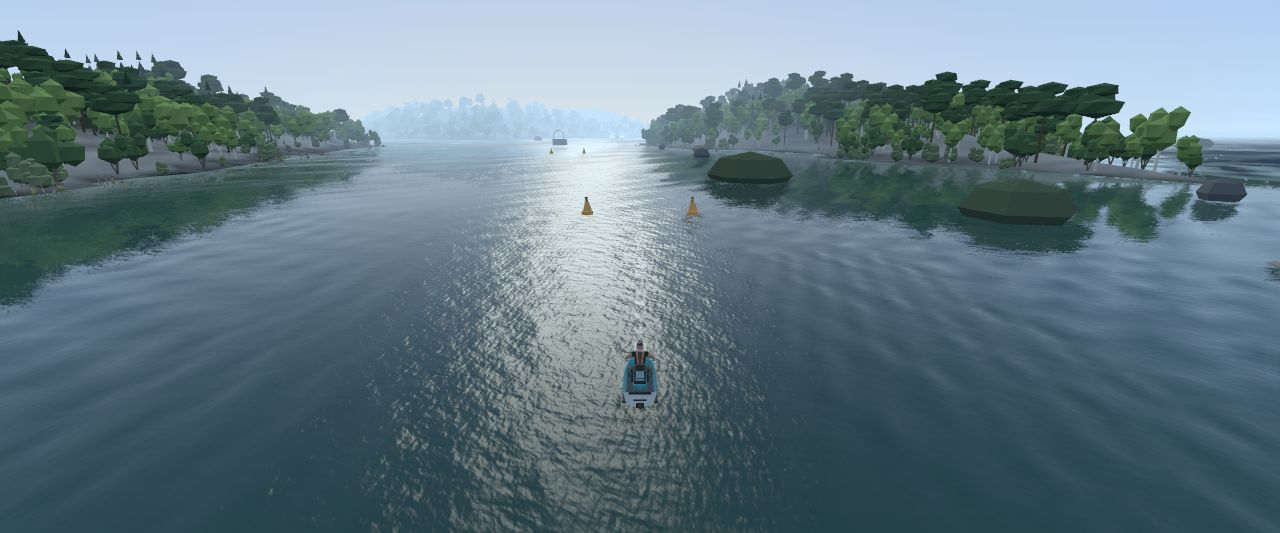
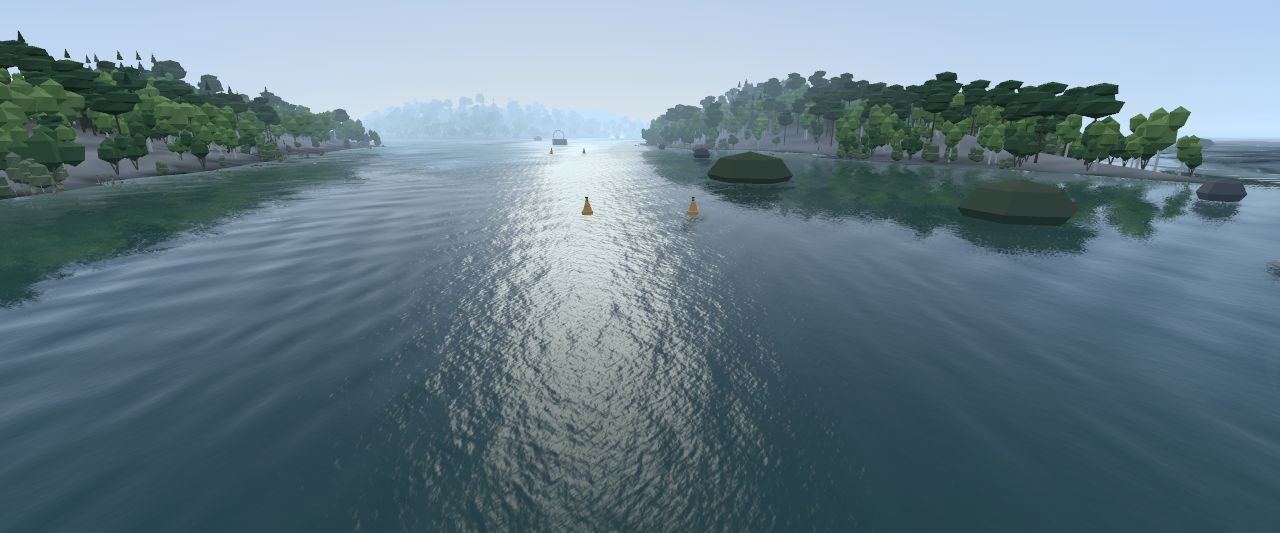
fix(pwa): photograph the coasts with nobody on the water, and draw the restart mark whole
Two things the cards were getting wrong.

THE SHORE ROWS. Every coast banner had a craft parked in the middle of it
and the guide line's dashes running away from it. The row asks which COAST,
and a hull in frame answers a different question — it is one arbitrary craft
the picker is not choosing there, and it drags a HUD readout into a picture
that is meant to be a place.

`?player=0` is the switch: the player's hull, his rider, the lamps it
carries and the pool they throw, the trail it lays, the spray it throws and
both guides drawn for him, all out of the frame. It draws less; it does not
simulate less — the run is stood up and ridden as it would be, and the chase
rig still frames the water from the hull, which is what keeps the shot the
shot. `make coasts` carries it and nothing in the game turns it.

THE RESTART MARK. The arrow over the minimap was clipped: its ring sliced
flat down the right-hand side and across the foot. Its viewBox had been cut
round the line the arc is drawn ON rather than round the stroke, which
stands 5.5 outside that line on every side. An SVG trims rather than shrinks
on overflow, so it read as a different drawing rather than as a big one.

Claude-Session: https://claude.ai/code/session_012u3Y11zMeki88mW49dHWGL

diff --git a/pwa/src/game/renderer.ts b/pwa/src/game/renderer.ts
@@ -127,6 +127,20 @@ export type GameRenderer = {
   /** Whether the camera-space guide back to a missed checkpoint is drawn.
    * The app gates it with the HUD and the run/pause surfaces. */
   setMissedGuide: (on: boolean) => void;
+  /** WHETHER THE PLAYER IS IN THE PICTURE AT ALL — his hull and the rider on
+   * it, the lamps it carries and the pool they throw, the trail it lays in
+   * the map, the spray it throws, and both guides drawn for him. Off, the
+   * frame is the world and nobody on it.
+   *
+   * It draws less; it does not SIMULATE less. The run is stood up, stepped
+   * and ridden exactly as it would be — the camera is still the chase rig on
+   * his hull, so the frame is still the water a rider would be looking at —
+   * and the sea still carries the wash he is laying in it, because that is
+   * the engine's water and not a mark on a map. The `?player=0` switch
+   * behind it belongs to the coast banners (`make coasts`), where the
+   * subject is the SHORE and a craft in frame is the wrong thing to be
+   * looking at. Nothing in the game turns it. */
+  setPlayerShown: (shown: boolean) => void;
   /** THE GHOST, on the water beside the rider (`ghost-run.ts`): its own run
    * over the same shore, posed off its own state every frame and drawn
    * see-through so nothing about it can be mistaken for a rival. Null takes
@@ -241,6 +255,19 @@ export function createRenderer(
    * built ONCE here and re-added to each world rather than torn down with
    * the shore. */
   const guide: GuideLine = createGuideLine();
+  /** WHETHER THE PLAYER IS DRAWN (`setPlayerShown`), and what the HUD's own
+   * switch last asked of the two guides. Both guides are readouts drawn for
+   * a rider who is in the picture, so they answer to the AND of the two —
+   * kept as a pair of flags rather than read back off the guides, because
+   * either switch can move at any time and neither may forget what the other
+   * said. */
+  let playerShown = true;
+  let guideAsked = false;
+  let missedAsked = false;
+  const applyGuides = (): void => {
+    guide.setShown(guideAsked && playerShown);
+    missedGuide.setShown(missedAsked && playerShown);
+  };
   let craft: THREE.Group | null = null;
   let rider: Rider | null = null;
   /** THE FIELD, drawn: one hull and one rider per rival, posed off the
@@ -562,8 +589,11 @@ export function createRenderer(
     if (craft) {
       craft.position.set(c.x, c.y, c.z);
       craft.quaternion.set(c.q.x, c.q.y, c.q.z, c.q.w);
+      // The rider and the lamps are children of the hull, so one flag takes
+      // the whole machine out of the frame.
+      craft.visible = playerShown;
     }
-    rider?.update(state);
+    if (playerShown) rider?.update(state);
     for (const f of field) {
       const rc = f.run.craft;
       f.group.position.set(rc.x, rc.y, rc.z);
@@ -614,7 +644,7 @@ export function createRenderer(
     // …and where the hull's cockpit stands this frame, so the sea is not
     // drawn inside it. Before the water's own update, like everything else
     // it has to be told before it draws.
-    water.setWell(craft ? wellCut : null, c);
+    water.setWell(craft && playerShown ? wellCut : null, c);
     cost.waterMs = water.update(state, c.x, c.z, frustum);
     gates?.update(state, camera);
     edgeNet?.update(state, dt);
@@ -679,7 +709,10 @@ export function createRenderer(
     // and the water reads the headlamp off the very spotlight the hull is
     // lit by.
     if (lamps) {
-      lamps.setLit(p.lamps, 1 - dayLight(p));
+      // A hull nobody can see throws no beam: the pool on the water is the
+      // one piece of the lamps that is not a child of the hull, so a night
+      // coast would otherwise be lit by a craft that is not in the picture.
+      lamps.setLit(playerShown ? p.lamps : 0, 1 - dayLight(p));
       // …and their own hardware is put away when the frame is drawn from a
       // lens bolted to the craft, because every piece of it is in front of
       // that lens rather than in front of the viewer. The beam is not: the
@@ -799,13 +832,37 @@ export function createRenderer(
     load,
     resize,
     setVideo,
-    setGuide: guide.setShown,
-    setMissedGuide: missedGuide.setShown,
+    setGuide: (on) => {
+      guideAsked = on;
+      applyGuides();
+    },
+    setMissedGuide: (on) => {
+      missedAsked = on;
+      applyGuides();
+    },
+    setPlayerShown: (shown) => {
+      if (shown === playerShown) return;
+      playerShown = shown;
+      applyGuides();
+      if (craft) craft.visible = shown;
+      // The trail and the spray are not hidden, they are UNMADE: the map
+      // carries what was stamped into it and the particles are already in
+      // the air, so taking the player out of the picture has to clear both
+      // or the frame keeps a wake behind nothing.
+      if (!shown) {
+        wake.reset();
+        spray.reset();
+      }
+    },
     setGhost,
     observe: (state) => {
-      wake.observe(state);
-      spray.observe(state);
-      rider?.observe(state);
+      // …and nothing new is laid while he is out of the picture. The field
+      // and the ghost are unaffected: this switch is the PLAYER's.
+      if (playerShown) {
+        wake.observe(state);
+        spray.observe(state);
+        rider?.observe(state);
+      }
       for (const f of field) f.rider.observe(f.run);
       // The ghost's body is on springs like everybody else's; its hull is
       // not given the wake or the spray, because a trail cut by a craft

diff --git a/pwa/src/game/url-params.ts b/pwa/src/game/url-params.ts
@@ -75,6 +75,13 @@
 //                  probe (game/video-probe.ts) is what may promote an
 //                  untouched picture to HIGH, and a lab photographing a
 //                  surface must not have a row move under its camera
+//   ?player=0      leave the PLAYER off the water — his hull, the rider on
+//                  it, its lamps, the trail it lays, the spray it throws and
+//                  the guide line drawn for him. The run is ridden exactly as
+//                  it would be; nothing about it is simply in the picture.
+//                  The coast banners' switch (`make coasts`): a shore row is
+//                  a photograph of a COAST, and one craft on it is both the
+//                  wrong subject and the wrong shore's craft
 //
 
 import {
@@ -185,6 +192,14 @@ export type Params = {
   /** Whether the first-visit probe may run — false only when the URL says
    * `probe=0`, which is the labs' word for "hold the picture still". */
   probe: boolean;
+  /** Whether the PLAYER is in the picture — his craft, his rider, and
+   * everything drawn for him or left behind by him. False only when the URL
+   * says `player=0`, which is the banner lab's word for "photograph the
+   * coast, not the ride". It takes nothing off the RUN: the hull is still
+   * there, still ridden, still laying a wash in the water the sea carries —
+   * it is simply not drawn, so the camera still frames the water a rider
+   * would be on. */
+  player: boolean;
 };
 
 /** A figure off a link, held inside the travel the row that stores it has —
@@ -283,6 +298,7 @@ export function readParams(search: string): Params {
         ? { page: menu }
         : null,
     probe: p.get("probe") !== "0",
+    player: p.get("player") !== "0",
   };
 }
 

diff --git a/pwa/src/game/hud-actions.tsx b/pwa/src/game/hud-actions.tsx
@@ -36,10 +36,22 @@ import { createHudPress, pressHandlers } from "./hud-press.ts";
 import { STRINGS } from "./strings.ts";
 
 /** The reset mark: an arrow curling back on itself, which is what this does
- * to a run. */
+ * to a run.
+ *
+ * THE BOX IS CUT ROUND THE STROKE, not round the line it is stroked on —
+ * which is the one thing this mark and the camera below it do differently,
+ * because this is the only one of the two that is stroked at all. The arc is
+ * drawn at width 11, so its ink stands 5.5 outside the path on every side:
+ * the sweep reaches x 84.03 and y 86.46, where its centreline stops at 78.53
+ * and 80.96. Cut the box to the centreline and the ring is sliced flat down
+ * its right-hand side and across its foot — and an SVG's default
+ * `overflow: hidden` TRIMS rather than shrinks, so the mark does not look
+ * too big, it looks like a different drawing. The arrowhead is filled with
+ * no stroke on it and reaches x = 8, which is why the left edge alone is
+ * flush with the box. */
 function ResetGlyph() {
   return (
-    <svg class="hud-glyph" viewBox="8 22 70.6 59" aria-hidden="true">
+    <svg class="hud-glyph" viewBox="8 19.4 76.1 67.1" aria-hidden="true">
       <path
         d="M 24 44 A 28 28 0 1 1 30 72"
         fill="none"

diff --git a/pwa/src/App.tsx b/pwa/src/App.tsx
@@ -338,6 +338,11 @@ export function App() {
     inputRef.current = input;
     const renderer = renderKit.createRenderer(canvas, settingsRef.current.video);
     renderer.setMissedGuide(settingsRef.current.hud.on && hudOver(shellRef.current));
+    // …and whether the player is in the picture at all (`?player=0`) — the
+    // coast banners' switch, and the only one of these that no surface can
+    // move afterwards: it is read once off the URL, because a card that
+    // could put the craft back would be a card the banner lab has to avoid.
+    renderer.setPlayerShown(params.player);
     rendererRef.current = renderer;
     const audio = createRunAudio();
     const clock = createRunClock(TUNING.physicsHz);

diff --git a/docs/configuration.md b/docs/configuration.md
@@ -37,9 +37,10 @@ The running game reads its whole situation off the URL, which is what makes a le
 | `splash`   | `0` clears the attract card off an ordinary visit (what the developer page's repro links carry); `1` forces it back on.                                                                                                                                                                                                                                                                                                                                                                                                                                                                                                                                                                                                                                                                                                                                                                                                                                                                                                                                                                                            |
 | `menu`     | Open the front door ON a page: `root`, `campaign` (the ladder), `levels` (which pinned shore a race, a tricks run or a time trial is on), `start` (the seed and the day, FREE's own), `craft`, `options`, `keys` (the bindings, behind OPTIONS), `developer`, `unlocks` (the campaign's shores opened or shut by hand, behind DEVELOPER) or `benchHistory` (the benchmark's list, behind DEVELOPER). The last three let the developer menu out with them — a URL that names a page has, by definition, found it. `campaign` and `levels` both open on their COAST step, the row of shore banners; there is no parameter for a shore's own grid, which is one press past it.                                                                                                                                                                                                                                                                                                                                                                                                                                        |
 | `probe`    | `0` skips the first-visit probe on this visit — the two seconds under the attract card that measure the machine and may hand an untouched picture the HIGH stops of WATER, DETAIL and DISTANCE. The labs carry it so a row never moves under the camera; a link has no reason to.                                                                                                                                                                                                                                                                                                                                                                                                                                                                                                                                                                                                                                                                                                                                                                                                                                  |
+| `player`   | `0` leaves the player off the water: his hull, the rider on it, the lamps it carries, the trail it lays, the spray it throws and the guide line drawn ahead of him. It changes nothing about the RUN — the craft is still there and still ridden, the chase camera still frames the water from it, and the sea still carries the wash it is laying — so what comes back is the same frame with nobody in it. The coast banners carry it (`make coasts`), because a shore row is a photograph of a COAST and a craft in the middle of one is the wrong subject; nothing in the game turns it.                                                                                                                                                                                                                                                                                                                                                                                                                                                                                                                       |
 | `update`   | `1` shows the new-build button as if a newer build were waiting — the only way to look at it before a deploy has landed on a device that already had the app. It stands over a run and over the front door alike, in the same bottom-right corner. The second press reloads the page.                                                                                                                                                                                                                                                                                                                                                                                                                                                                                                                                                                                                                                                                                                                                                                                                                              |
 
-A URL that names a RUN (`start`, `scene`, `shot`, `paused`) boots into one, past the attract card and the front door. Anything else opens the front door, with the URL's seed, craft, time, day, weather and picture rows as the settings it is standing on — so a link decides what RIDE rides without deciding that it has already been pressed. Every one of these except `update` is a row on the start card, the level card, the craft card, the options page or the developer page. COPY REPRO LINK writes back what decides the RUN — the seed, the craft, the day and the developer's own overrides; the picture rows are a fact about the machine reading the link rather than about the frame, so they are left to whoever opens it. `scripts/screenshot.mjs` and `scripts/profile-render.mjs` both take them as flags (`--water`, `--res`, `--detail`, `--see`, `--fps`), which is how a picture ladder is looked at and metered one stop at a time; the screenshot tool takes `--camera` the same way.
+A URL that names a RUN (`start`, `scene`, `shot`, `paused`) boots into one, past the attract card and the front door. `player` is the one row here that no surface can put back: it is read once, on the way in, because a card that could return the craft mid-visit would be a card the banner lab has to steer around. Anything else opens the front door, with the URL's seed, craft, time, day, weather and picture rows as the settings it is standing on — so a link decides what RIDE rides without deciding that it has already been pressed. Every one of these except `update` is a row on the start card, the level card, the craft card, the options page or the developer page. COPY REPRO LINK writes back what decides the RUN — the seed, the craft, the day and the developer's own overrides; the picture rows are a fact about the machine reading the link rather than about the frame, so they are left to whoever opens it. `scripts/screenshot.mjs` and `scripts/profile-render.mjs` both take them as flags (`--water`, `--res`, `--detail`, `--see`, `--fps`), which is how a picture ladder is looked at and metered one stop at a time; the screenshot tool takes `--camera` the same way.
 
 The debug switch the spec asks for (§19.3) is the dev build: `npm run dev` lifts the engine's `debug`-level output onto the console through `pwa/src/output-bridge.ts`, and the same lines are kept in an in-memory ring buffer every build can read back.
 

diff --git a/.changes/unreleased/1789845481-coast-banners-without-a-rider.md b/.changes/unreleased/1789845481-coast-banners-without-a-rider.md
@@ -1,0 +1,6 @@
+---
+type: Changed
+title: The coast pictures on the shore rows are of the coast alone
+---
+
+The banner behind every shore row on the CAMPAIGN and RACE cards no longer has a craft parked in the middle of it, or the guide line's dashes running away from it. The row is asking which COAST, and a hull in the frame answered a different question: it was one arbitrary craft the picker was not choosing there, and it dragged a HUD readout — a dashed line down the middle of the water — into a picture that is meant to be a place. The shot is the same shot otherwise: the same shore, the same hour, the same light, the same lens.

diff --git a/.changes/unreleased/1789845482-restart-mark-drawn-whole.md b/.changes/unreleased/1789845482-restart-mark-drawn-whole.md
@@ -1,0 +1,6 @@
+---
+type: Fixed
+title: The restart mark over the water is drawn whole
+---
+
+The arrow curling back on itself, on the left of the two round presses above the minimap, was clipped: its ring was sliced flat down the right-hand side and across the foot. Its box had been cut round the line the arc is drawn ON rather than round the stroke, which stands 5.5 units outside that line on every side — so the mark was trimmed rather than shrunk, and it now reads as the closed ring it was drawn as.
